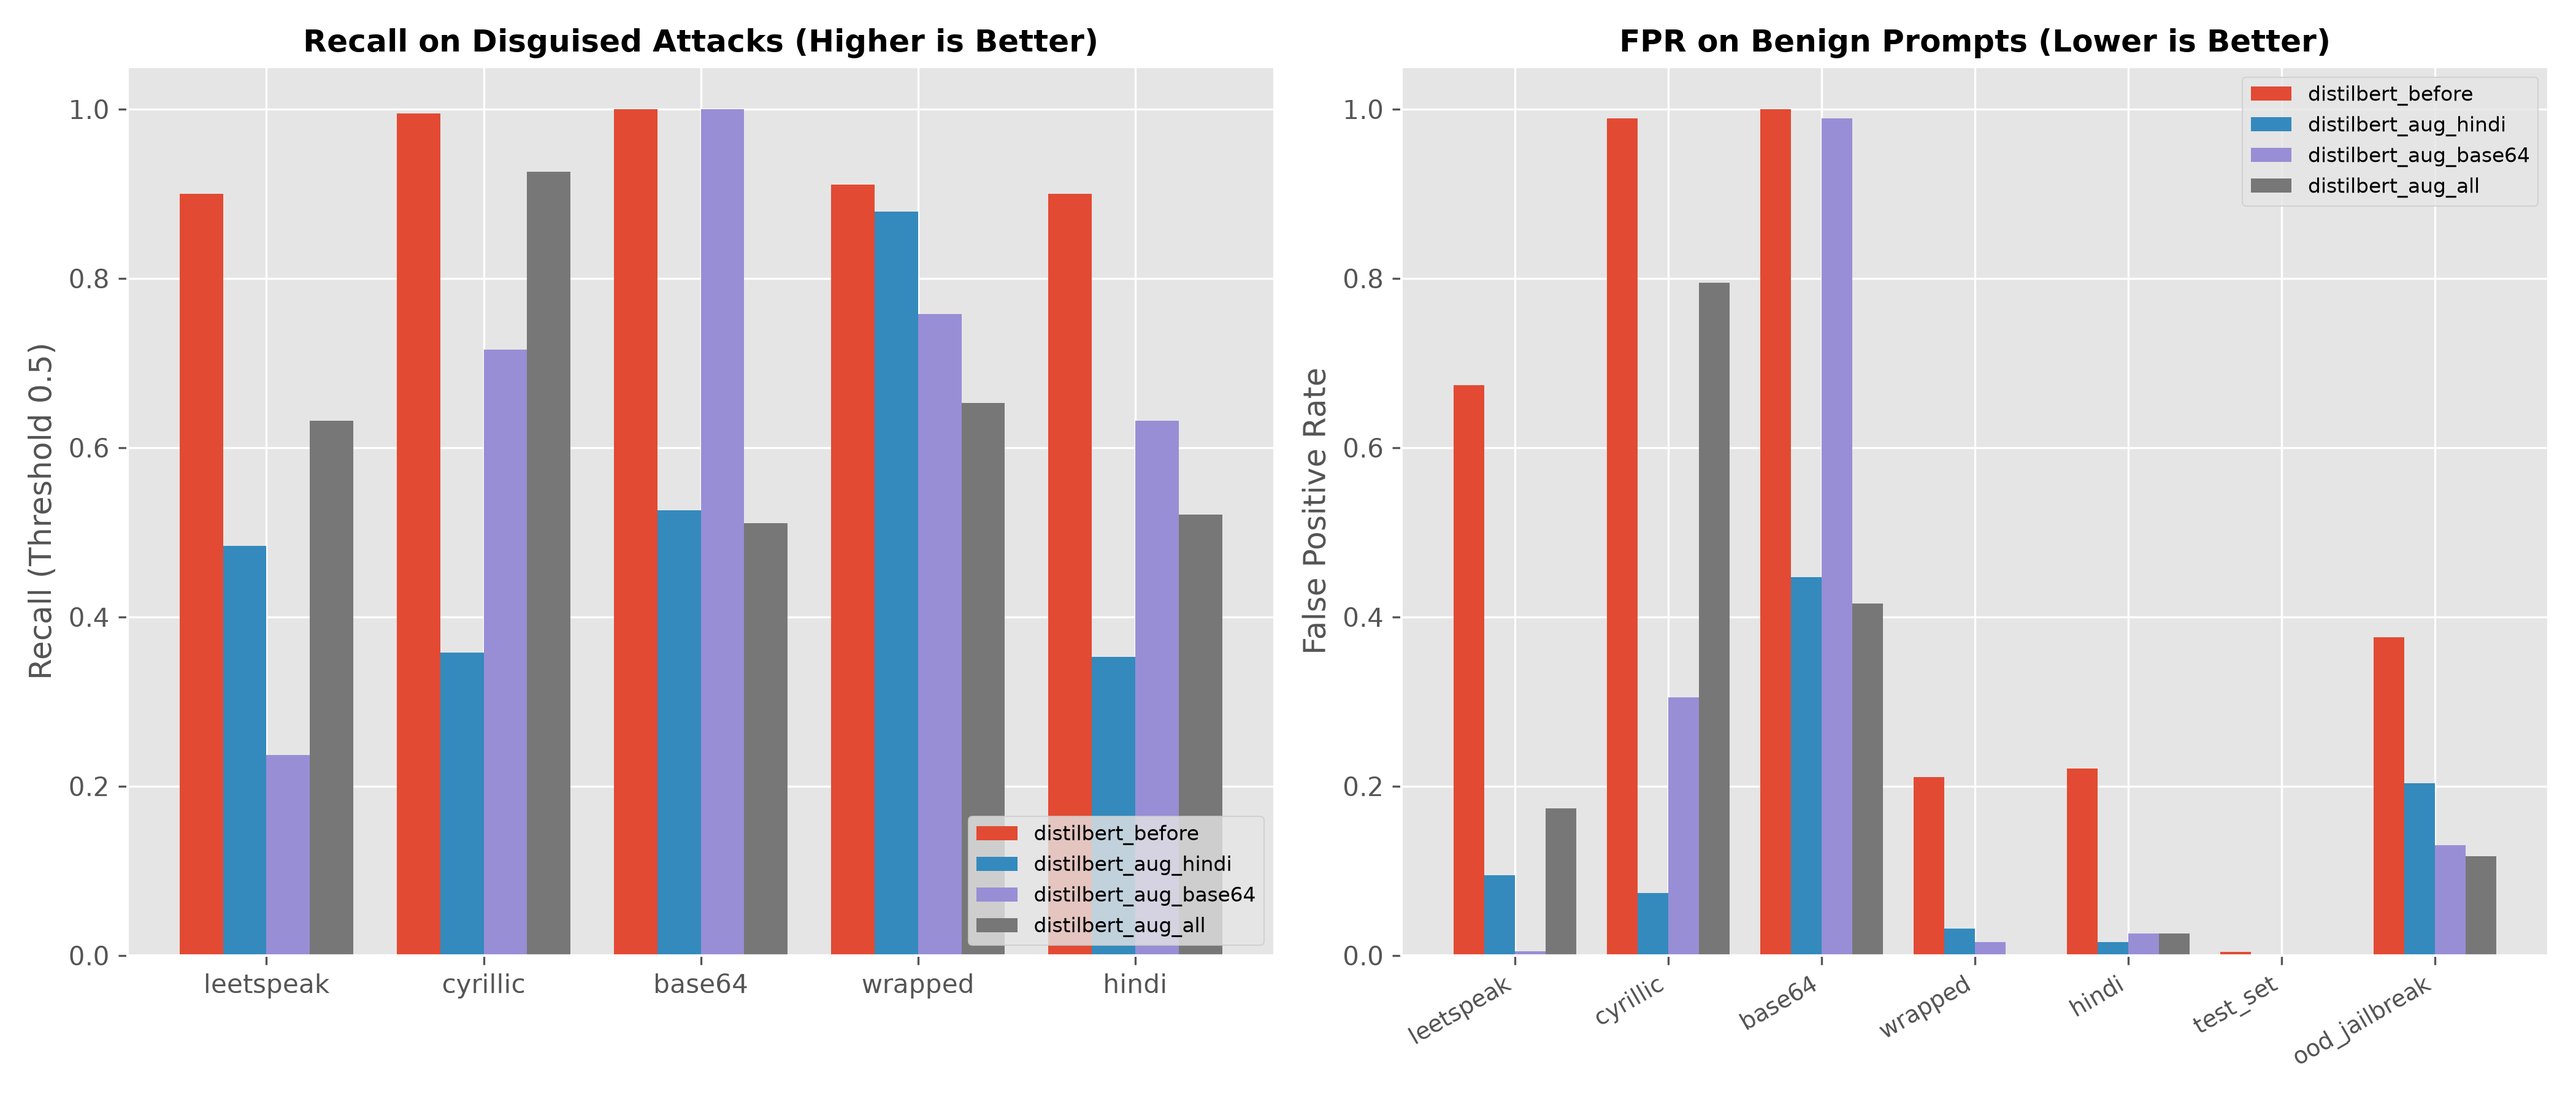
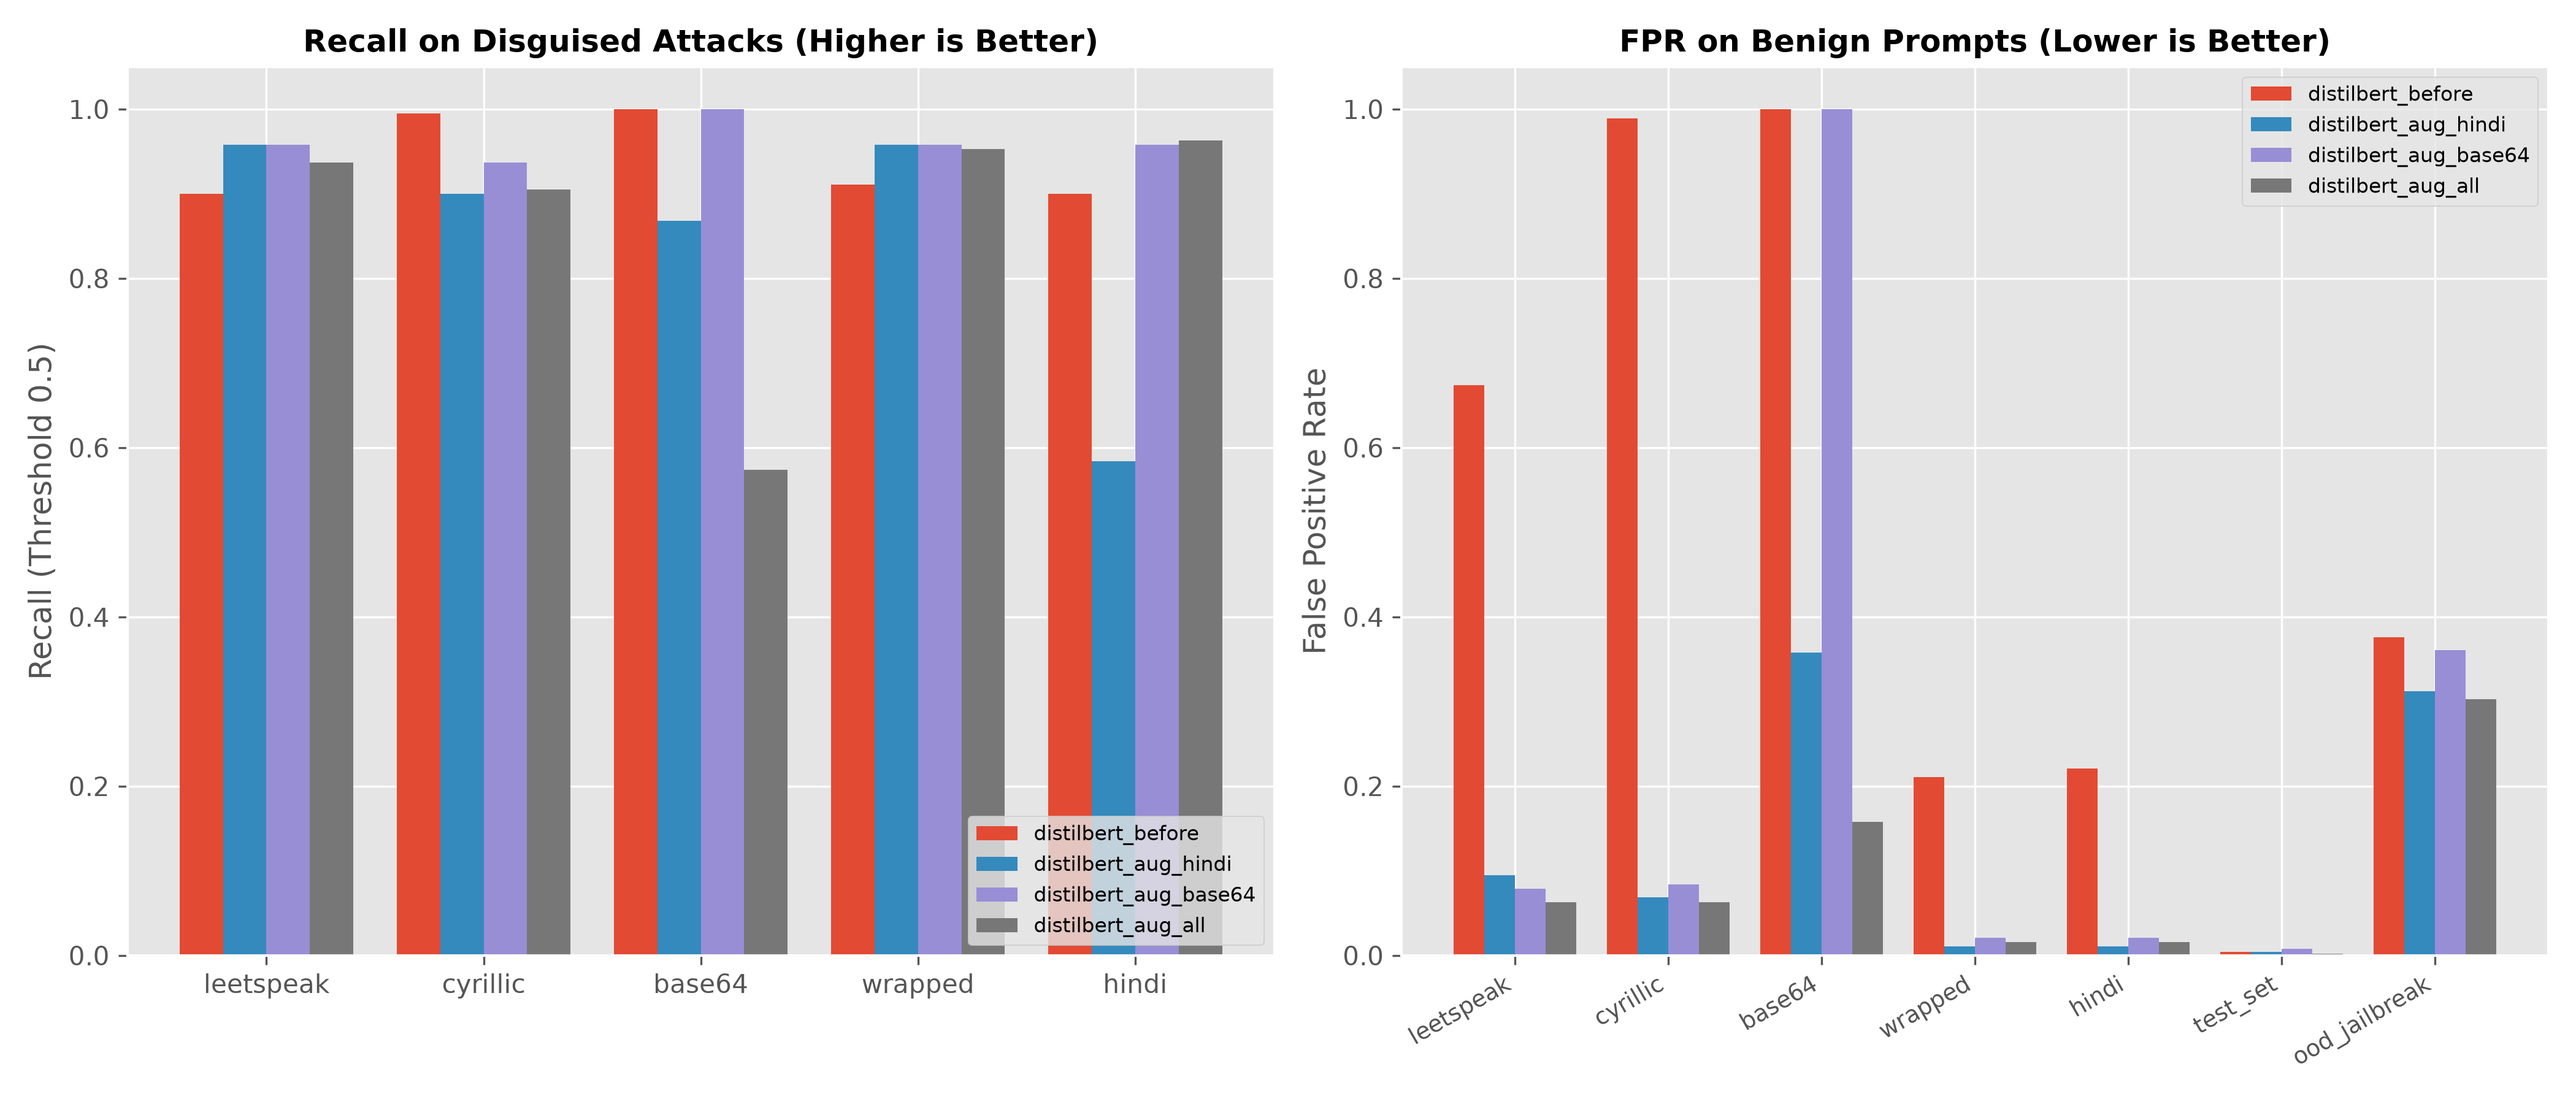
Re-run augmentation with full training

diff --git a/augment_experiment.py b/augment_experiment.py
@@ -45,6 +45,15 @@ def build_augmented_datasets():
     if not os.path.exists(train_path):
         raise FileNotFoundError(f"Missing {train_path}")
 
+    all_extra_path = os.path.join(DATA_DIR, "augmented_train_extra.csv")
+    extra_files = {"all": all_extra_path}
+    for held_out in ["hindi", "base64"]:
+        extra_files[held_out] = os.path.join(DATA_DIR, f"augmented_train_extra_leave_{held_out}.csv")
+
+    if os.path.exists(all_extra_path) and os.path.exists(extra_files["hindi"]) and os.path.exists(extra_files["base64"]):
+        print(f"Reusing existing valid augmented datasets on disk ({all_extra_path}).", flush=True)
+        return extra_files
+
     train_df = pd.read_csv(train_path)
     injections_df = train_df[train_df["label"] == 1].sample(n=200, random_state=SEED).reset_index(drop=True)
     benign_df = train_df[train_df["label"] == 0].sample(n=200, random_state=SEED).reset_index(drop=True)
